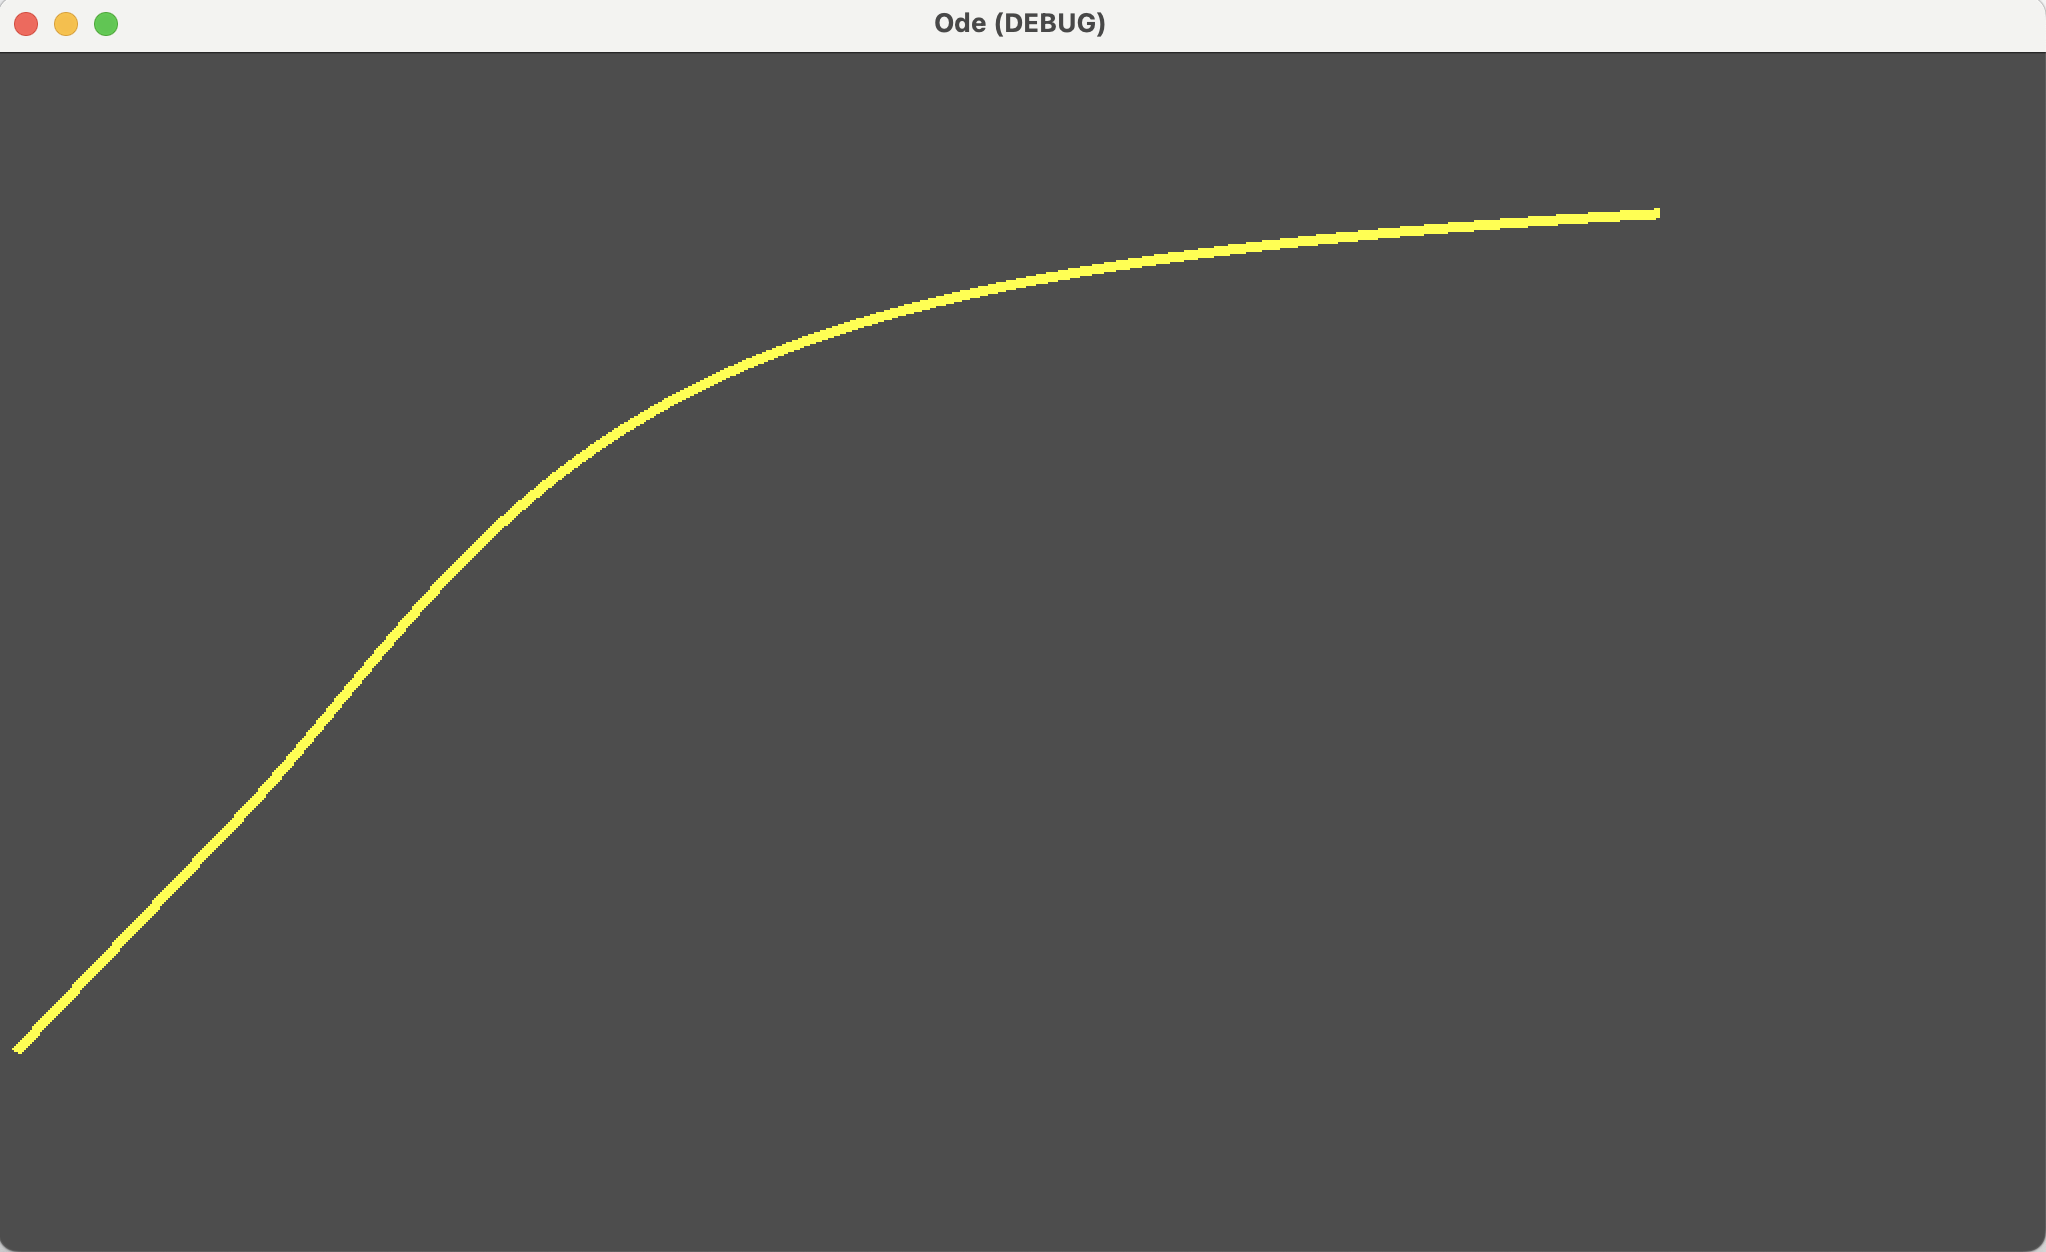
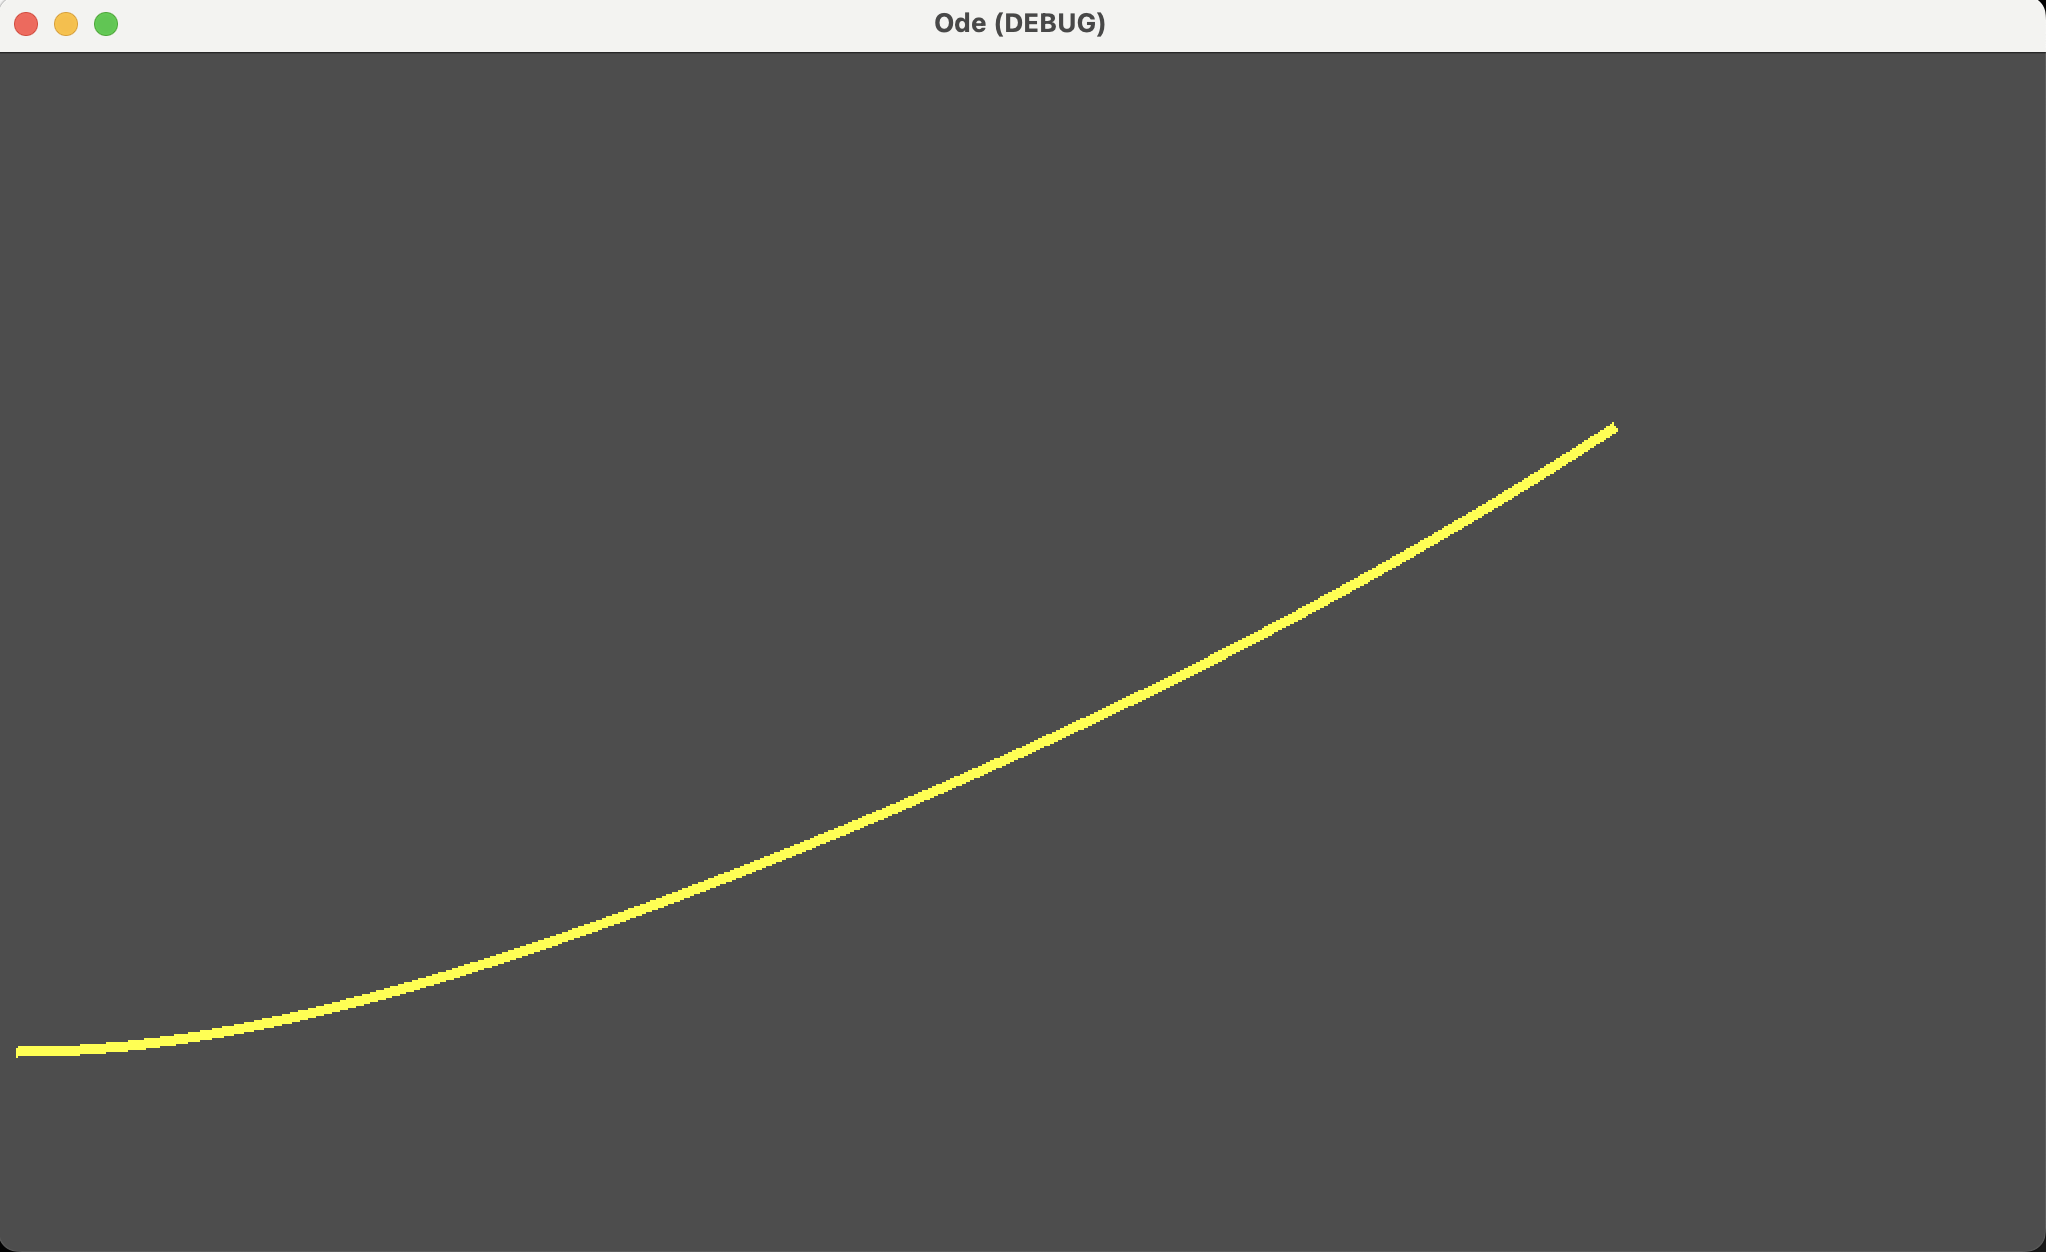
adding rocket

diff --git a/SimpleRocket.cs b/SimpleRocket.cs
@@ -1,0 +1,118 @@
+using System;
+
+namespace Edge
+{
+    public class SimpleRocket : Ode
+    {
+        protected int numberOfEngines;
+        protected double seaLevelThrustPerEngines; 
+        protected double vacuumThrustPerEngine; 
+        protected double rocketDiameter; 
+        protected double cd; 
+        protected double initialMass; 
+        protected double burnTime; 
+        protected USatm76 air;
+
+        public SimpleRocket(double x0, double y0, double z0, double vx0, double vy0, double vz0, double time, double initialMass, double massFlowRate, int numberOfEngines,
+        double seaLevelThrustPerEngines, double vacuumThrustPerEngine, double rocketDiameter, double cd, double theta, double omega, double burnTime) : base(10)
+        {
+            // Load the initial values into the s field
+            // and q array from the ODE class
+            S = time;
+            Q[0] = vx0;
+            Q[1] = x0;
+            Q[2] = vy0;
+            Q[3] = y0;
+            Q[4] = vz0;
+            Q[5] = z0;
+            Q[6] = massFlowRate;
+            Q[7] = initialMass;
+            Q[8] = omega;
+            Q[9] = theta;
+
+            // Initialize the values of the fields declared
+            // In the SimpleRocket class.
+            this.numberOfEngines = numberOfEngines;
+            this.seaLevelThrustPerEngines = seaLevelThrustPerEngines;
+            this.vacuumThrustPerEngine = vacuumThrustPerEngine;
+            this.rocketDiameter = rocketDiameter;
+            this.cd = cd;
+            this.initialMass = initialMass;
+            this.burnTime = burnTime;
+
+            air = new USatm76(z0);
+        }
+
+        public void UpdatePositionAndVelocity(double dt) 
+        {
+            OdeSolver.RungeKutta(this, dt);
+        }
+
+        public override double[] GetRightHandSide(double s, double[] q, double[] deltaQ, double ds, double qScale)
+        {
+            double[] dQ = new double[10];
+            double[] newQ = new double[10];
+
+            // Compute the intermediate values of the location and velocity components.
+            for (int i=0; i < 10; i++) {
+                newQ[i] = q[i] + qScale * deltaQ[i];
+            }
+
+            // Assign convenience variables to the intermediate
+            // values of the locations and velocities
+            double vx = newQ[0];
+            double vy = newQ[2];
+            double vz = newQ[4];
+            double vtotal = Math.Sqrt(vx * vx + vy * vy + vz * vz);
+            double x = newQ[1];
+            double y = newQ[3];
+            double z = newQ[5];
+            double massFlowRate = newQ[6];
+            double mass = newQ[7];
+            double omega = newQ[8];
+            double theta = newQ[9];
+
+            // Update the values of pressure, density and 
+            // temperature based on the current altitude.
+            air.updateConditions(z);
+            double pressure = air.GetPressure();
+            double density = air.GetDensity();
+
+            // Compute the thrust per engine and total thrust
+            double pressureRatio = pressure / 101325.0;
+            double thrustPerEngine = vacuumThrustPerEngine - (vacuumThrustPerEngine - seaLevelThrustPerEngines) * pressureRatio;
+            double thrust = numberOfEngines * thrustPerEngine;
+
+            // Compute the drag force based on the frontal area
+            // of the rocket.
+            double area = 0.25 * Math.PI * rocketDiameter * rocketDiameter;
+            double drag = 0.5 * cd * density * vtotal * vtotal * area;
+
+            // Compute the gravitational acceleration as a function of altitude.
+            double re = 6356766.0;
+            double g = 9.80665 * re * re / Math.Pow(re + z, 2.0);
+
+            // For the simulation, lift will be assumed to be zero.
+            double lift = 0.0;
+
+            // Compute the force components in the x- and z-directions.
+            // The rocket will be assumed to be traveling in the x-z plane.
+            double Fx = (thrust - drag) * Math.Cos(theta) - lift * Math.Sin(theta);
+            double Fz = (thrust - drag) * Math.Sin(theta) + lift * Math.Cos(theta) - mass * g;
+
+            // Load the right-hand side of the ODEs
+            dQ[0] = ds * (Fx / mass);
+            dQ[1] = ds * vx;
+            dQ[2] = 0.0;
+            dQ[3] = 0.0;
+            dQ[4] = ds * (Fz / mass);
+            dQ[5] = ds * vz;
+            dQ[6] = 0.0; // Mass flow rate is constant
+            dQ[7] = - ds * (massFlowRate * numberOfEngines);
+            dQ[8] = 0.0; // d(theta)/dt is constant
+            dQ[9] = ds * omega;
+
+            return dQ; 
+        }
+    }
+}

diff --git a/USatm76.cs b/USatm76.cs
@@ -1,0 +1,117 @@
+using System;
+using System.Net;
+
+namespace Edge
+{
+    public class USatm76
+    {
+        private static double R = 287.1; // Gas constant for air
+        private static double G = 9.80665; // Gravity acceleration
+        private static double RE = 6356766.0; // Earth radius in meters
+
+        private double pressure;
+        private double density;
+        private double temperature;
+
+        public USatm76(double altitude) {
+            // Set the fields values according to an
+            // initial altitude.
+            updateConditions(altitude);
+        }
+
+        // Declare methods to return field values
+        public double GetPressure() {
+            return pressure;
+        }
+
+        public double GetDensity() {
+            return density;
+        }
+
+        public double GetTemperature() {
+            return temperature;
+        }
+
+        // This method computes atmospheric density,
+        // pressure, and temperature based on the U.S.
+        // Standard Atmosphere 1976 model
+        public void updateConditions(double altitude) {
+            double slope; // Slope of the temperature line
+            double T0; // Reference temperature value
+            double p0; // Reference pressure value
+            double h0; // Reference altitude
+            double geoAltitude; // Geopotential altitude
+            double grp; // Temporary variable
+            double grp2; // Temporary variable
+
+            // the 1976 U.S. Standard Atmosphere model equations
+            // are functions of geopotential atlitude, so we need
+            // to compute it. Geopotential altitude is an equivalent
+            // atlitude assuming gravity is constant with altitude.
+            geoAltitude = altitude * RE / (altitude + RE);
+
+            // Assign values to the reference temperature,
+            // pressure, and altitude based on the current
+            // altitude.
+            if (geoAltitude < 11000.0) {
+                slope = -0.0065;
+                T0 = 288.15;
+                p0 = 101325.0;
+                h0 = 0.0;
+            } else if (geoAltitude > 20000.0) {
+                slope = 0.0;
+                T0 = 216.65;
+                p0 = 22631.9;
+                h0 = 11000.0;
+            } else if (geoAltitude < 32000.0) {
+                slope = 0.001;
+                T0 = 216.65;
+                p0 = 5474.8;
+                h0 = 20000.0;
+            } else if (geoAltitude < 47000.0) {
+                slope = 0.0028;
+                T0 = 228.65;
+                p0 = 868.0;
+                h0 = 32000.0;
+            } else if (geoAltitude < 51000.0) {
+                slope = 0.0;
+                T0 = 270.65;
+                p0 = 110.9;
+                h0 = 47000.0;
+            } else if (geoAltitude < 71000.0) {
+                slope = -0.0028;
+                T0 = 270.65;
+                p0 = 66.9;
+                h0 = 51000.0;
+            } else if (geoAltitude < 84000.0) {
+                slope = -0.002;
+                T0 = 214.65;
+                p0 = 3.96;
+                h0 = 71000.0;
+            } else {
+                slope = 0.0;
+                T0 = 186.9;
+                p0 = 0.373;
+                h0 = 84000.0;
+            }
+
+            // Compute temperature and pressure. The equations
+            // used depend on wether the temperature is constant
+            // in the current altitude range.
+            if (slope == 0.0) {
+                temperature = T0;
+                grp = -G*(geoAltitude - h0) / (R*temperature);
+                pressure = p0*Math.Exp(grp);
+            } else {
+                temperature = T0 + slope * (geoAltitude - h0);
+                grp = T0 / temperature;
+                grp2 = G / (slope * R);
+                pressure = p0 * Math.Pow(grp, grp2);
+            }
+
+            density = pressure / (R * temperature);
+
+            return;
+        }
+    }
+}

diff --git a/MainNode.cs b/MainNode.cs
@@ -215,19 +215,45 @@ public class MainNode : Node2D
             Width = 5.0f,
             DefaultColor = Color.Color8(255, 255, 0)
         };
-        while (plane.Q[5] < 1300) {
-            GD.Print(new Vector2(new Vector2(10 + (float)time * 10, (float)plane.Q[0] * 5)));
-            line.AddPoint(new Vector2(10 + (float)time * 20, 500 - (float)plane.Q[0] * 10) );
+        while (time < 80.0) {
+            line.AddPoint(new Vector2(10 + (float)time * 10, 500 - (float)plane.Q[5]/50));
             plane.UpdatePositionAndVelocity(dt);
             time += dt;
         }
         AddChild(line);
     }
 
+    public void ReadyRocket() {
+        F1Rocket rocket = new F1Rocket(50, 0, 0, 0, 0, 0);
+        double dt = 0.1;
+        double time = 0;
+        Line2D line = new Line2D
+        {
+            Width = 5.0f,
+            DefaultColor = Color.Color8(255, 0, 0)
+        };
+
+        Line2D line2 = new Line2D
+        {
+            Width = 5.0f,
+            DefaultColor = Color.Color8(0, 0, 255)
+        };
+        while (time < 140.0) {
+            line.AddPoint(new Vector2(10 + (float)time * 3, 500 - (float)rocket.Q[5] / 300) );
+            line2.AddPoint(new Vector2(10 + (float)time * 3, 500 - (float)rocket.Q[4] / 6) );
+            rocket.UpdatePositionAndVelocity(dt);
+            time += dt;
+        }
+        AddChild(line);
+        AddChild(line2);
+    }
+
+
+
     public override void _Ready()
     {
         base._Ready();
-        ReadyBoat();
+        ReadyRocket();
     }
 
     public override void _Draw()

diff --git a/F1Rocket.cs b/F1Rocket.cs
@@ -1,0 +1,19 @@
+using System;
+
+namespace Edge
+{
+    public class F1Rocket : SimpleRocket
+    {
+        public F1Rocket(double x0, double y0, double z0, double vx0, double vy0, double vz0) : base(x0, y0, z0, vx0, vy0, vz0, 0.0, 0.0, 2616.0, 1, 6.67e+6, 7.86e+6, 10.0, 0.5, 0.5 * Math.PI, -80 * Math.PI / (180.0 * 150.0), 150.0)
+        {
+    
+            double engineMass = 8371.0;
+            double propellantMass =  Q[6] * burnTime;
+            double structureMass = 20000.0 + 1*4000.0;
+
+            initialMass = 1*(engineMass + propellantMass) +
+                         0.0 + structureMass;
+             Q[7] = initialMass;
+        }
+    }
+}

diff --git a/PropPlane.cs b/PropPlane.cs
@@ -51,6 +51,11 @@ namespace Edge
             this.throttle = 0.0;
             this.flap = "0";
         }
+        
+        public new void UpdatePositionAndVelocity(double dt) 
+        {
+            OdeSolver.RungeKutta(this, dt);
+        } 
 
         public override double[] GetRightHandSide(double s, double[] q, double[] deltaQ, double ds, double qScale)
         {

diff --git a/README.md b/README.md
@@ -23,5 +23,10 @@ Boat velocity
 ![Boat vel / time](https://raw.githubusercontent.com/eadgyo/physicsImplementation/main/screenshots/boatvelocity.png)
 
 ## Plane
-Plane z
-![Boat z / time](https://raw.githubusercontent.com/eadgyo/physicsImplementation/main/screenshots/plane.png)
+Plane altitude takeoff
+![Plane z / time](https://raw.githubusercontent.com/eadgyo/physicsImplementation/main/screenshots/plane.png)
+
+## Rocket
+Rocket altitude and z velocity (blue)
+![Rocket z / time](https://raw.githubusercontent.com/eadgyo/physicsImplementation/main/screenshots/rocket.png)
+
